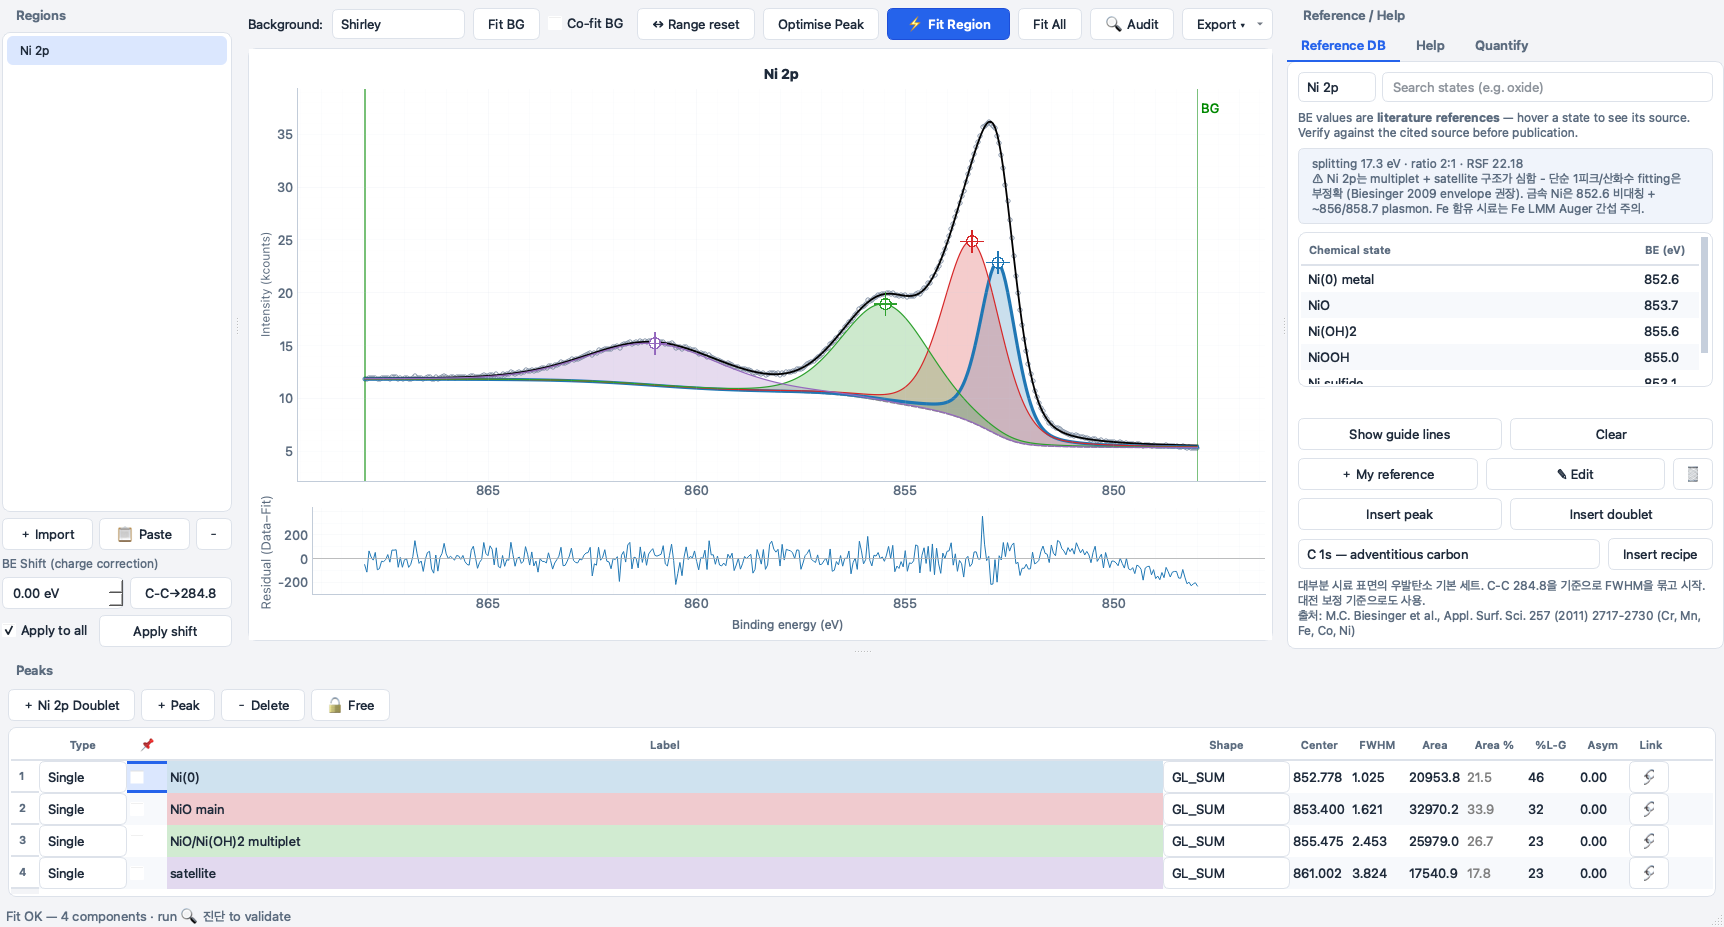
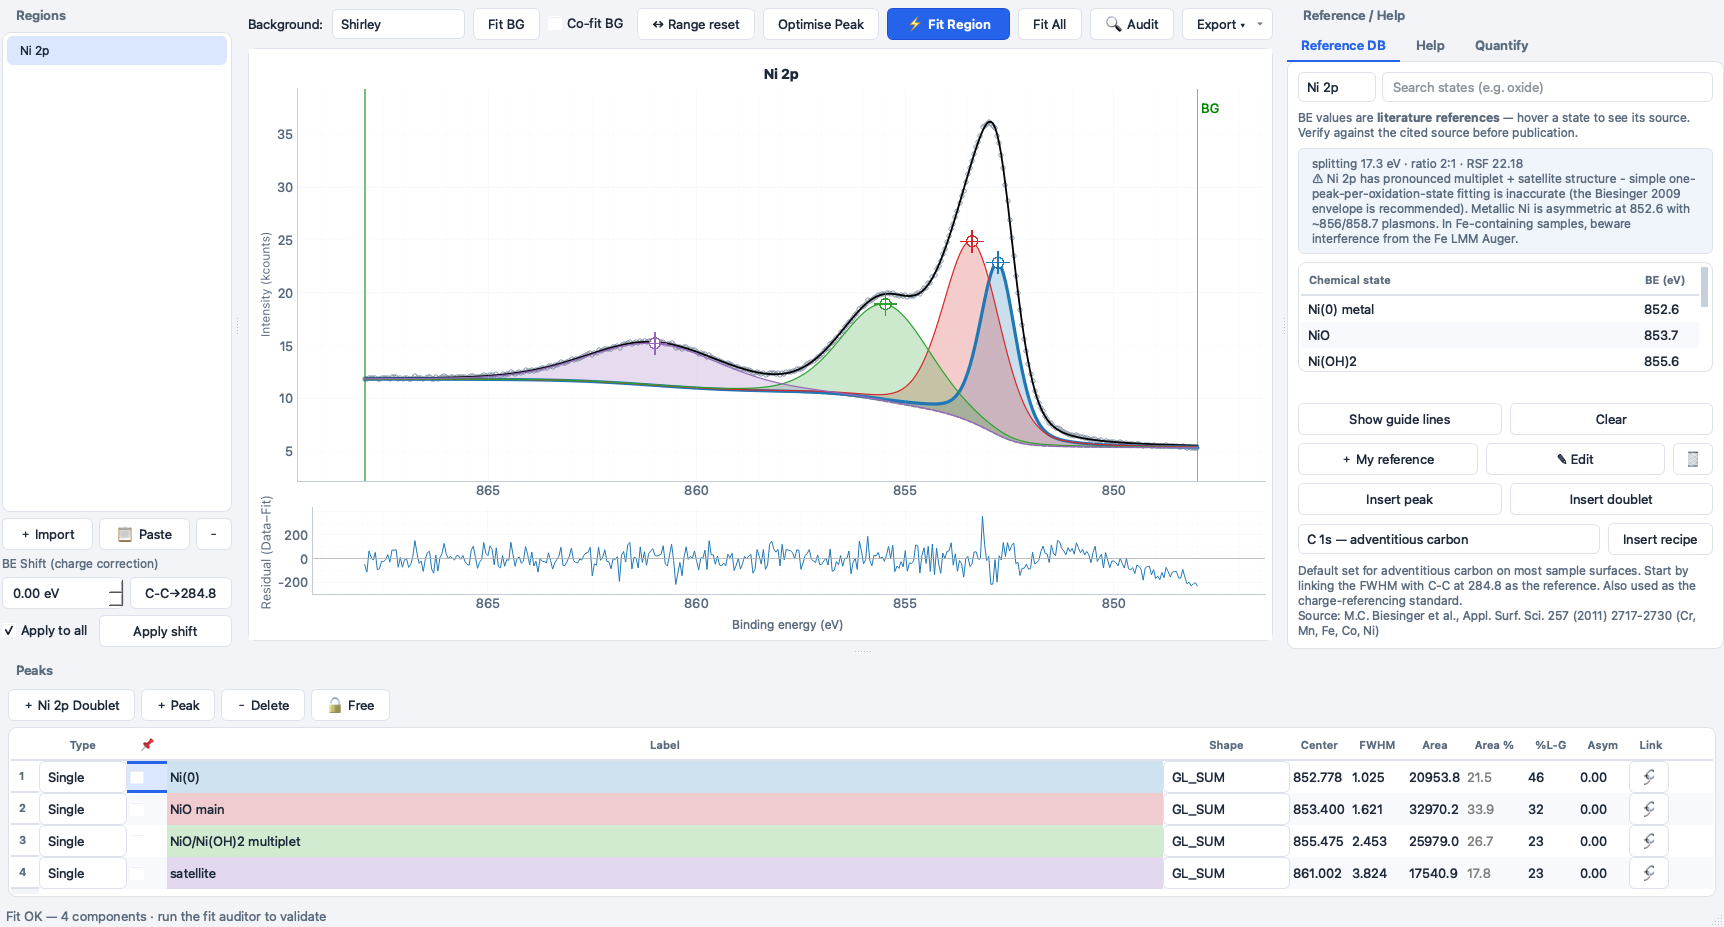
app: Star/Cite in Help menu + cite dialog + About; bilingual screenshot tool
- Help menu: "Star Corepeak on GitHub" + "How to cite Corepeak…" (BibTeX copy +
  open citation page); About box asks for a star + citation
- Fix REPO_URL and CITATION.cff -> contact993/corepeak
- make_screenshot.py: accept en|ko, force UI language in-process, output
  screenshot.png / screenshot-ko.png

Changed region(s): [[0.7378, 0.1812, 1.0, 0.6947], [0.0922, 0.9666, 0.1845, 0.9968]]

diff --git a/src/xpsfit/ui/main_window.py b/src/xpsfit/ui/main_window.py
@@ -286,6 +286,9 @@ class MainWindow(QMainWindow):
             act.setCheckable(True)
             act.setChecked(current_language() == code)
         m_help.addSeparator()
+        self._add_action(m_help, t("⭐ Star Corepeak on GitHub", "⭐ GitHub에서 Corepeak Star"),
+                         lambda: self._open_url(""))
+        self._add_action(m_help, t("📑 How to cite Corepeak…", "📑 Corepeak 인용 방법…"), self._cite)
         self._add_action(m_help, t("💬 Send feedback / report a bug", "💬 피드백 보내기 / 버그 신고"),
                          lambda: self._open_url("/issues/new/choose"))
         self._add_action(m_help, t("📚 Submit a reference value", "📚 레퍼런스 값 제보"), lambda: self._open_url(
@@ -738,13 +741,62 @@ class MainWindow(QMainWindow):
             url = "https://github.com/sponsors/contact993"
         QDesktopServices.openUrl(QUrl(url))
 
+    def _citation_bibtex(self) -> str:
+        from .. import REPO_URL
+        return (
+            "@software{corepeak,\n"
+            "  author  = {Kim, Taehee},\n"
+            "  title   = {Corepeak: free cross-platform XPS peak fitting with a built-in fit auditor},\n"
+            "  year    = {2026},\n"
+            f"  url     = {{{REPO_URL}}},\n"
+            f"  version = {{{__version__}}}\n"
+            "}"
+        )
+
+    def _cite(self) -> None:
+        from PySide6.QtWidgets import QApplication
+        from PySide6.QtGui import QDesktopServices
+        from PySide6.QtCore import QUrl
+        bibtex = self._citation_bibtex()
+        box = QMessageBox(self)
+        box.setWindowTitle(t("How to cite Corepeak", "Corepeak 인용 방법"))
+        box.setText(t(
+            "If Corepeak helped your research, please cite it.\n"
+            "Citations are how a free academic tool justifies its continued development.",
+            "Corepeak이 연구에 도움이 됐다면 인용해 주세요.\n"
+            "인용은 무료 학술 도구가 지속 개발을 정당화하는 방법입니다."))
+        box.setInformativeText(
+            t("A peer-reviewed software paper (with DOI) is in preparation; until then, cite the "
+              "repository and the version you used:", "DOI가 있는 동료심사 논문을 준비 중입니다. 그 전까지는 "
+              "저장소와 사용한 버전을 인용해 주세요:")
+            + f"<pre style='font-family:monospace;font-size:11px'>{bibtex}</pre>")
+        copy_btn = box.addButton(t("Copy BibTeX", "BibTeX 복사"), QMessageBox.ButtonRole.ActionRole)
+        web_btn = box.addButton(t("Open citation page", "인용 페이지 열기"), QMessageBox.ButtonRole.ActionRole)
+        box.addButton(QMessageBox.StandardButton.Close)
+        box.exec()
+        clicked = box.clickedButton()
+        if clicked is copy_btn:
+            QApplication.clipboard().setText(bibtex)
+            self.statusBar().showMessage(
+                t("BibTeX copied to clipboard.", "BibTeX를 클립보드에 복사했습니다."), 5000)
+        elif clicked is web_btn:
+            QDesktopServices.openUrl(QUrl("https://contact993.github.io/corepeak/cite/"))
+
     def _about(self) -> None:
+        from .. import REPO_URL
+        host = REPO_URL.replace("https://", "")
         QMessageBox.about(
             self, APP_NAME,
             f"<b>{APP_NAME} {__version__}</b> — free XPS peak fitting (GPLv3)<br>"
-            "XPSPEAK 워크플로 + fit audit + 레퍼런스 DB + 한국어 가이드<br><br>"
-            "엔진: lmfit / scipy · 플로팅: pyqtgraph<br>"
-            "Uses Qt via PySide6 under the LGPLv3 — Qt source: https://www.qt.io/download<br><br>"
-            "BE 데이터베이스: 문헌 레퍼런스 값 (각 항목에 출처 표기) — "
-            "Biesinger et al., Moulder Handbook, NIST SRD 20<br>"
-            "<a href='https://github.com/contact993/xpsfit'>github.com/contact993/xpsfit</a>")
+            + t("XPSPEAK workflow + fit auditor + reference DB + guides",
+                "XPSPEAK 워크플로 + fit audit + 레퍼런스 DB + 한국어 가이드") + "<br><br>"
+            + "Engine: lmfit / scipy · pyqtgraph<br>"
+            + "Uses Qt via PySide6 under the LGPLv3 — Qt source: https://www.qt.io/download<br><br>"
+            + t("BE database: literature reference values (each entry cites its source) — ",
+                "BE 데이터베이스: 문헌 레퍼런스 값 (각 항목에 출처 표기) — ")
+            + "Biesinger et al., Moulder Handbook, NIST SRD 20<br><br>"
+            + t("If Corepeak helps your research, please ⭐ star it on GitHub and cite it "
+                "(Help ▸ How to cite Corepeak).",
+                "Corepeak이 연구에 도움이 됐다면 GitHub에서 ⭐ Star와 인용 부탁드립니다 "
+                "(도움말 ▸ Corepeak 인용 방법).") + "<br>"
+            + f"<a href='{REPO_URL}'>{host}</a>")

diff --git a/build_scripts/make_screenshot.py b/build_scripts/make_screenshot.py
@@ -1,7 +1,18 @@
 """Generate a polished marketing screenshot: a fully-fitted spectrum with several
-colored component peaks visible (not an empty window)."""
+colored component peaks visible (not an empty window).
+
+Usage:
+    python build_scripts/make_screenshot.py [en|ko]
+
+The UI language is forced in-process (without touching the user's saved
+setting) so the captured screenshot is fully English or fully Korean.
+Output: docs/screenshot.png (en) or docs/screenshot-ko.png (ko).
+"""
 import sys
 from pathlib import Path
+
+# Pick language BEFORE Qt/app strings are built, and keep it out of Qt's argv.
+_LANG = "ko" if (len(sys.argv) > 1 and sys.argv[1].lower().startswith("ko")) else "en"
 
 from PySide6.QtCore import QTimer
 from PySide6.QtWidgets import QApplication
@@ -9,14 +20,19 @@ from PySide6.QtWidgets import QApplication
 from xpsfit import refdb
 from xpsfit.core import fitting
 from xpsfit.io import importer
+from xpsfit.ui import i18n
+from xpsfit.ui.i18n import t
 from xpsfit.ui.main_window import MainWindow
 from xpsfit.ui.theme import apply_theme
+
+# Force the language for this process only (no QSettings write).
+i18n._LANG = _LANG
 
 ROOT = Path(__file__).parent.parent
 
 
 def main() -> int:
-    app = QApplication(sys.argv)
+    app = QApplication([sys.argv[0]])  # keep our lang arg away from Qt
     apply_theme(app)
     win = MainWindow()
     win.resize(1600, 980)
@@ -34,11 +50,15 @@ def main() -> int:
     fitting.fit_until_converged(region)
     win._model_edited()
     win.peak_table.table.setCurrentCell(0, 1)  # highlight first peak
-    win.statusBar().showMessage("Fit OK — 4 components · run 🔍 진단 to validate", 0)
+    win.statusBar().showMessage(
+        t("Fit OK — 4 components · run the fit auditor to validate",
+          "피팅 완료 — 성분 4개 · 핏 오디터로 검증하세요"), 0)
     win.show()
 
+    suffix = "-ko" if _LANG == "ko" else ""
+    out = ROOT / "docs" / f"screenshot{suffix}.png"
+
     def grab():
-        out = ROOT / "docs" / "screenshot.png"
         win.grab().save(str(out))
         print("screenshot ->", out)
 

diff --git a/src/xpsfit/__init__.py b/src/xpsfit/__init__.py
@@ -1,5 +1,5 @@
-"""XPSFit Studio - XPS peak fitting with reference database and educational help."""
+"""Corepeak - XPS peak fitting with reference database and educational help."""
 
 __version__ = "0.1.2"
 APP_NAME = "Corepeak"
-REPO_URL = "https://github.com/contact993/xpsfit"
+REPO_URL = "https://github.com/contact993/corepeak"

diff --git a/README.md b/README.md
@@ -51,7 +51,7 @@ don't have to look them up.
 
 ## Install
 
-Download the latest signed build from the [Releases](https://github.com/contact993/xpsfit/releases)
+Download the latest signed build from the [Releases](https://github.com/contact993/corepeak/releases)
 page:
 - **macOS** — unzip, move `Corepeak.app` to Applications, first launch via right-click → Open.
 - **Windows** — unzip, run `Corepeak.exe` from the extracted folder ("More info → Run anyway" on
@@ -62,7 +62,7 @@ No Python install required.
 ### Run from source
 
 ```bash
-git clone https://github.com/contact993/xpsfit && cd xpsfit
+git clone https://github.com/contact993/corepeak && cd xpsfit
 python -m venv .venv && . .venv/bin/activate
 pip install -e .
 python -m xpsfit.app
@@ -71,8 +71,8 @@ python -m xpsfit.app
 ## Feedback, feature requests & contributing references
 
 This tool grows from its users:
-- **Bug / feature** — open an [issue](https://github.com/contact993/xpsfit/issues/new/choose).
-- **Questions & feature voting** — the [Discussions](https://github.com/contact993/xpsfit/discussions) board.
+- **Bug / feature** — open an [issue](https://github.com/contact993/corepeak/issues/new/choose).
+- **Questions & feature voting** — the [Discussions](https://github.com/contact993/corepeak/discussions) board.
 - **📚 Contribute a reference value** — use the *Submit a reference value* issue template (a
   literature source is required). Accepted submissions ship in the next release with credit, so the
   database keeps getting richer.